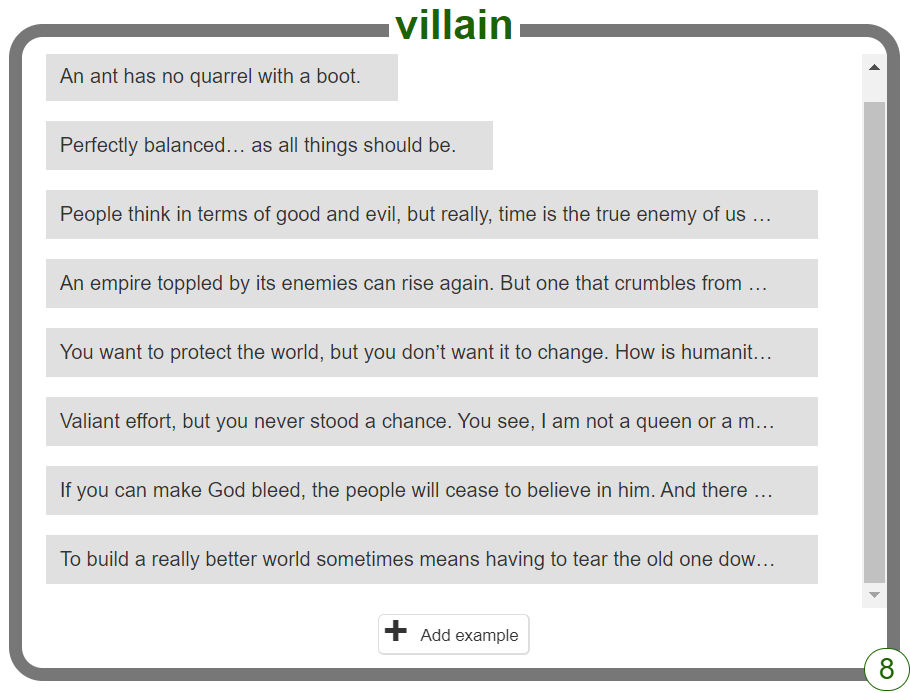
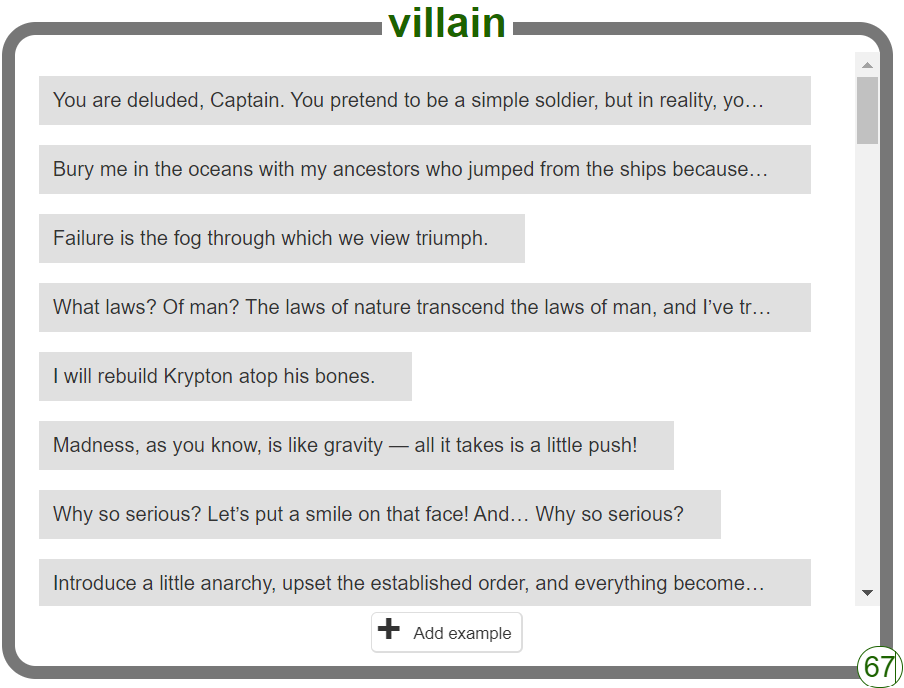
update test_text.png, villain_class.png and step_3.md

diff --git a/en/step_3.md b/en/step_3.md
@@ -20,13 +20,15 @@ In the window which pops up, create a label for the `hero` class.
 
 --- /task ---
 
-You shouls now be looking at an two empty boxes, one title 'hero' and one titled 'villain:
+You should now be looking at an two empty boxes, one title 'hero' and one titled 'villain':
 ![](images/text_model.png)
 
 --- task ---
 
 Look in your favourite books, or search online for quotes from famous heroes. In your `hero` class, click `Add Example` and paste or type in the quotes one at a time. 
-![Button which reads '+ add example'](images/add_example.png) 
+![Button which reads '+ add example'](images/add_example.png)
+
+To make it a bit easier, we have also provided a [spreadsheet](https://docs.google.com/spreadsheets/d/1Ge1xmn6gPoQhs78Rh5CQKVKYwNRW_9yOdhehtsKEFwo/edit?usp=sharing) with tabs for `hero`, `villain` and another tab called `TESTING DATA` with a list of training quotes kept separate - **do not use the TESTING DATA in this step, you will need it later!**
 
 --- /task ---
 
@@ -72,20 +74,24 @@ Now that you have trained your model, it is time to test it to see how successfu
 
 --- task ---
 
-To see how successful your model is at classifying heroes and villains, test your model by typing in a quote.
+To see how successful your model is at classifying heroes and villains, test your model by typing a quote into the field that appears.
+
+**IMPORTANT:** Make sure you don't use a quote that already exists in your training data! If you are using the quotes from the [spreadsheet](https://docs.google.com/spreadsheets/d/1Ge1xmn6gPoQhs78Rh5CQKVKYwNRW_9yOdhehtsKEFwo/edit?usp=sharing), make sure to use quotes from the TRAINING DATA tab! 
+
+--- /task ---
+
+--- task ---
+
+Click the **Test** button to test your model. Your model will predict whether the text you entered is heroic or villainous and will tell you the level of confidence the model has in that prediction.
+
 ![](images/test_text.png)
+In this example, the model is only 19% certain the quote from the Wizard of Oz is spoken by a hero. (It is - Dorothy says it!) 19% is not a very good confidence score; most commercial classification applications need to operate around 95-99% confidence!
 
 --- /task ---
 
 --- task ---
 
-Click the **Test** button to test your model.
-
---- /task ---
-
---- task ---
-
-Once you have tested a few of the images, answer the following questions in your **blueprint**:
+Once you have tested a few different quotes, think about these important things:
 
 1. Describe the results of your testing. How accurate was the model? 
 2. Why do you think the prediction is sometimes  wrong?
@@ -95,11 +101,11 @@ Once you have tested a few of the images, answer the following questions in your
 
 ### Bias and data
 
-When we teach a computer to recognize different things, like apples and tomatoes, we need to give it lots of examples to learn from. These examples are called **training data**.
+When we teach a computer to recognize different things, like quotes from heroes or villains, we need to give it lots of examples to learn from. These examples are called **training data**.
 
-If we use a training dataset that contains mostly red tomatoes and green apples, this does not accurately represent the real world as there are also red apples and even green tomatoes. If the data used to train the model is not representative of what you're trying to model, neither will the prediction be which your model makes.
+If, in making our model, we use a training dataset that contains mostly long hero quotes and short villain quotes, this does not accurately represent the real world as there are also short hero quotes and long villain quotes. If the data used to train the model is not representative of what you're trying to model, neither will the prediction be which your model makes.
 
-This is called **bias**, which means the computer is favouring one thing over another. We can fix this by using a more diverse training dataset that includes different types and colours of apples and tomatoes. By doing this, we can help the computer learn to recognize the features that distinguish each type of fruit, rather than just relying on the colour of the training examples.
+This is called **bias**, which means the computer is favouring one thing over another. We can fix this by using a more diverse training dataset that includes different lengths and styles of things different characters say. By doing this, we can help the computer learn to recognize the features that distinguish each type of quote, rather than just relying on the length of the training examples.
 
 <p style='border-left: solid; border-width:10px; border-color: #0faeb0; background-color: aliceblue; padding: 10px;'>
 By using more diverse and representative training data, we can help ensure that the computer makes accurate and fair predictions when it encounters new examples. This can make the computer more useful and reliable for different applications, from identifying objects in photos to making decisions in healthcare or finance.
